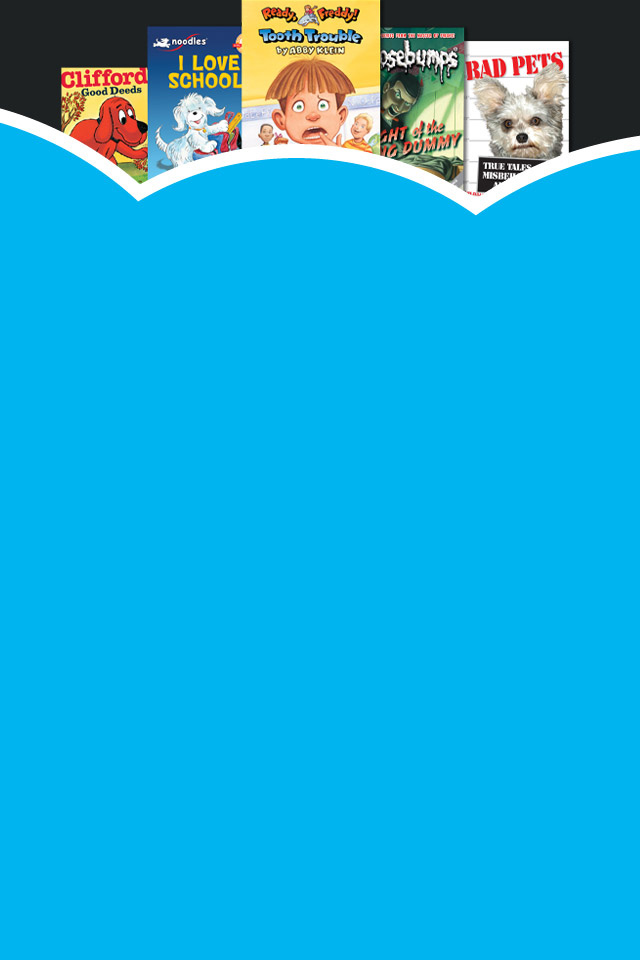
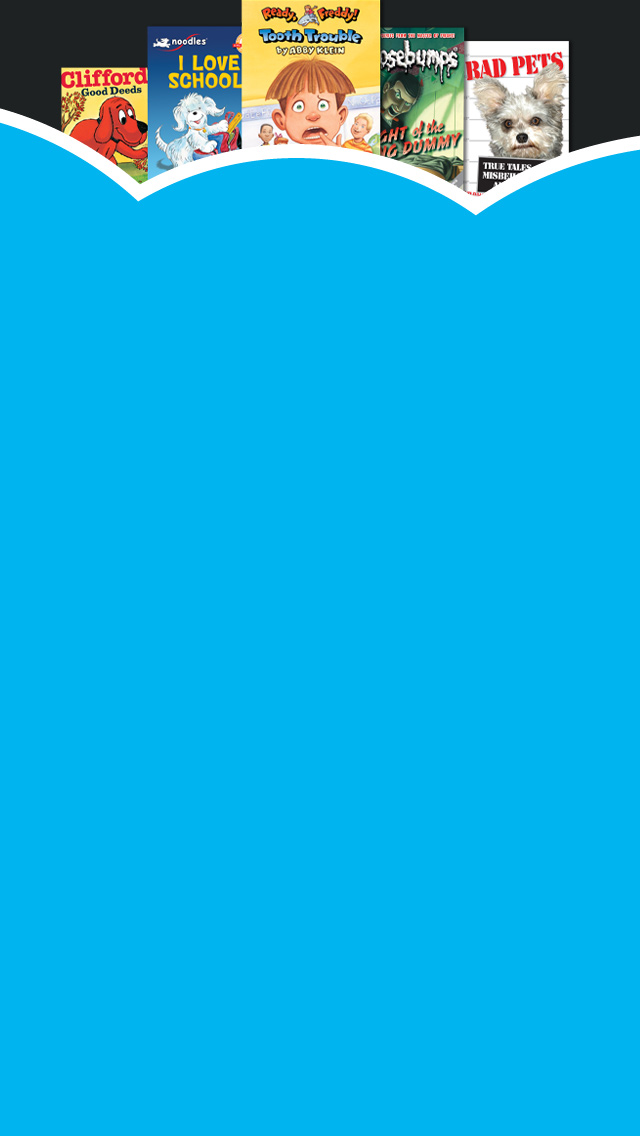
[touch: 2051] Changed splash screen, login screen background and alignment and tour screen background and resizing

Changed region(s): [[0.0, 0.0, 1.0, 0.2188]]

diff --git a/Shared/SCHStoriaLoginViewController.m b/Shared/SCHStoriaLoginViewController.m
@@ -250,14 +250,7 @@ static const CGFloat kSCHStoriaLoginContentHeightLandscape = 420;
     CGRect promptFrame = self.promptLabel.frame;
     promptFrame.size.height = promptHeight;
     self.promptLabel.frame = promptFrame;
-    self.containerView.transform = containerTransform;
-    
-    if (UI_USER_INTERFACE_IDIOM() == UIUserInterfaceIdiomPhone) {
-        CGRect containerFrame = self.containerView.frame;
-        containerFrame.size.height = phoneContainerHeight;
-        containerFrame.origin.y = CGRectGetHeight(self.view.frame) - phoneContainerHeight;
-        self.containerView.frame = containerFrame;
-    }
+    self.containerView.transform = containerTransform;    
 }
 
 #pragma mark - UITextFieldDelegate
